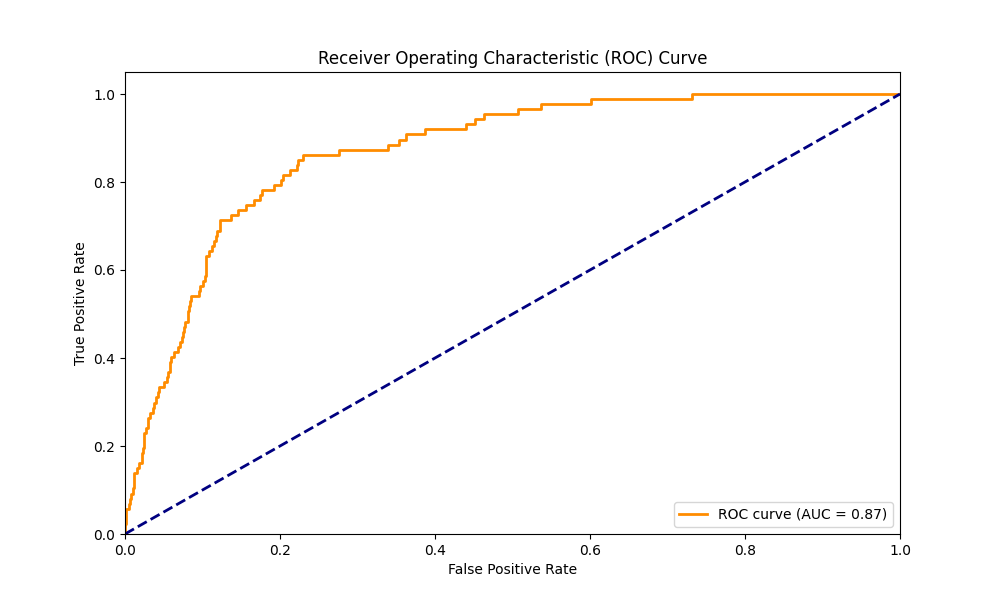
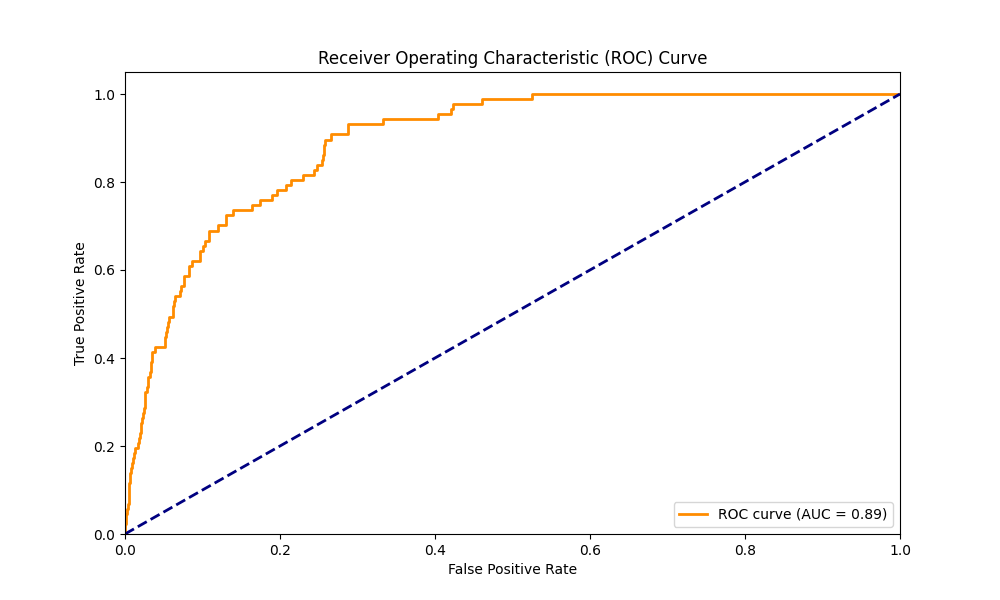
new training params

diff --git a/trainer/trainer.py b/trainer/trainer.py
@@ -78,7 +78,7 @@ def train():
                 print(f"Ppositive class weight: {pos_weight.item():.2f}")
                 print(f"Malignant count: {malignant_count} --> using focal loss")
                 pos_weight=pos_weight.to(device)
-                loss_fn = FocalLoss(alpha=0.85, gamma=4, reduction="mean", pos_weight=pos_weight)
+                loss_fn = FocalLoss(alpha=0.95, gamma=3, reduction="mean", pos_weight=pos_weight)
             else:
                 print("WARNING: No malignant samples found in dataset, using unweighted loss")
                 loss_fn = nn.BCEWithLogitsLoss()

diff --git a/model/pretrained_model.py b/model/pretrained_model.py
@@ -16,7 +16,10 @@ class PretrainedMelanomaClassifier(nn.Module):
         # Modify the classifier to fit the number of classes
         self.efficientnet.classifier = nn.Sequential(
             nn.Dropout(0.2),
-            nn.Linear(1536, output_dim) #1280 for b0 model
+            nn.Linear(1536, output_dim) 
+            #1280 for b0 model 
+            #1536 for b3 model
+            #2048 for b5 model
         )
         
         self.binary_mode = binary_mode
